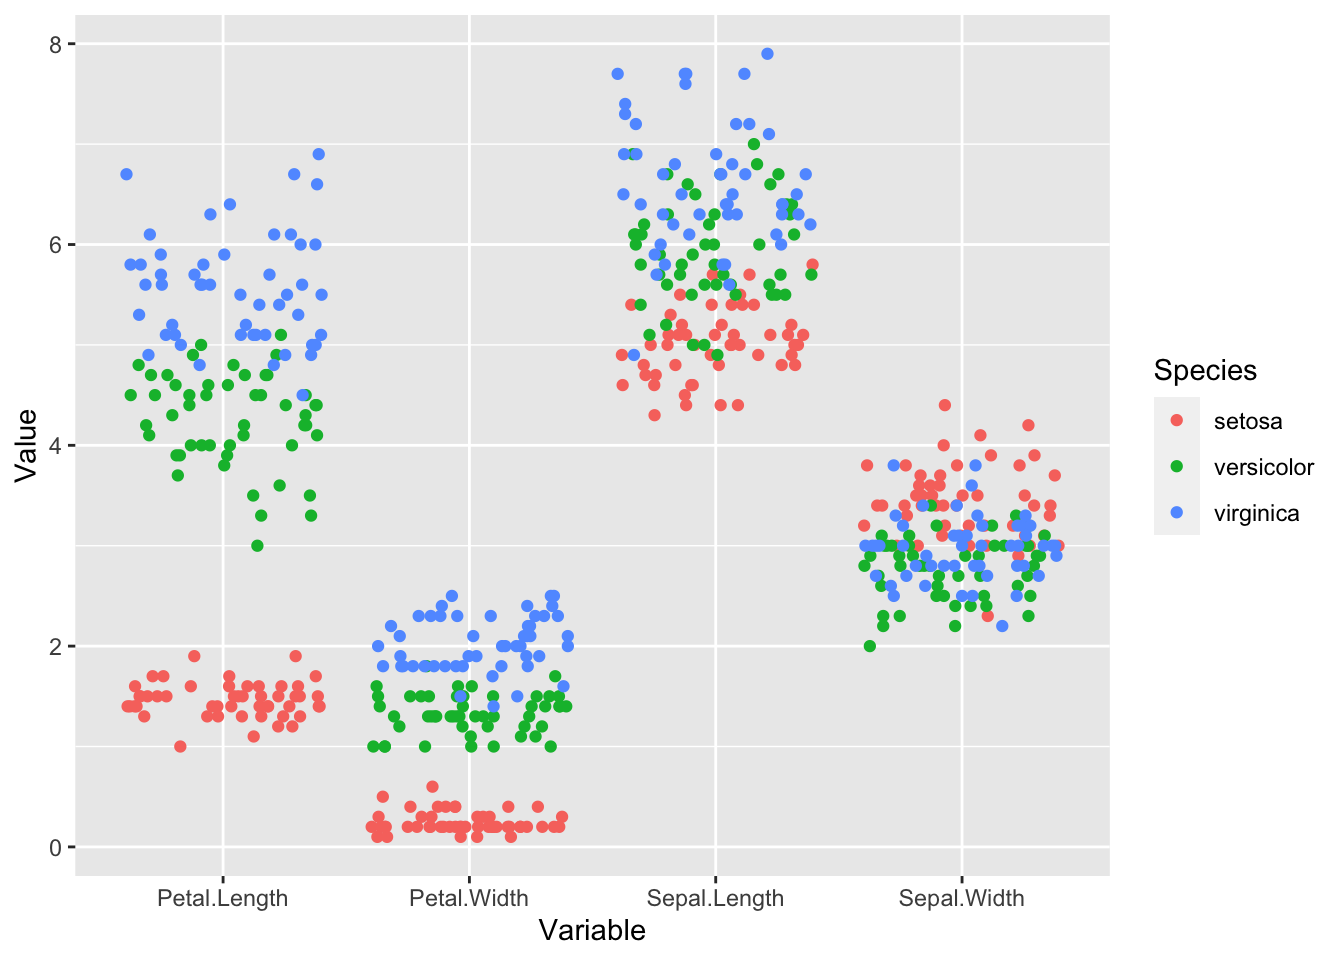
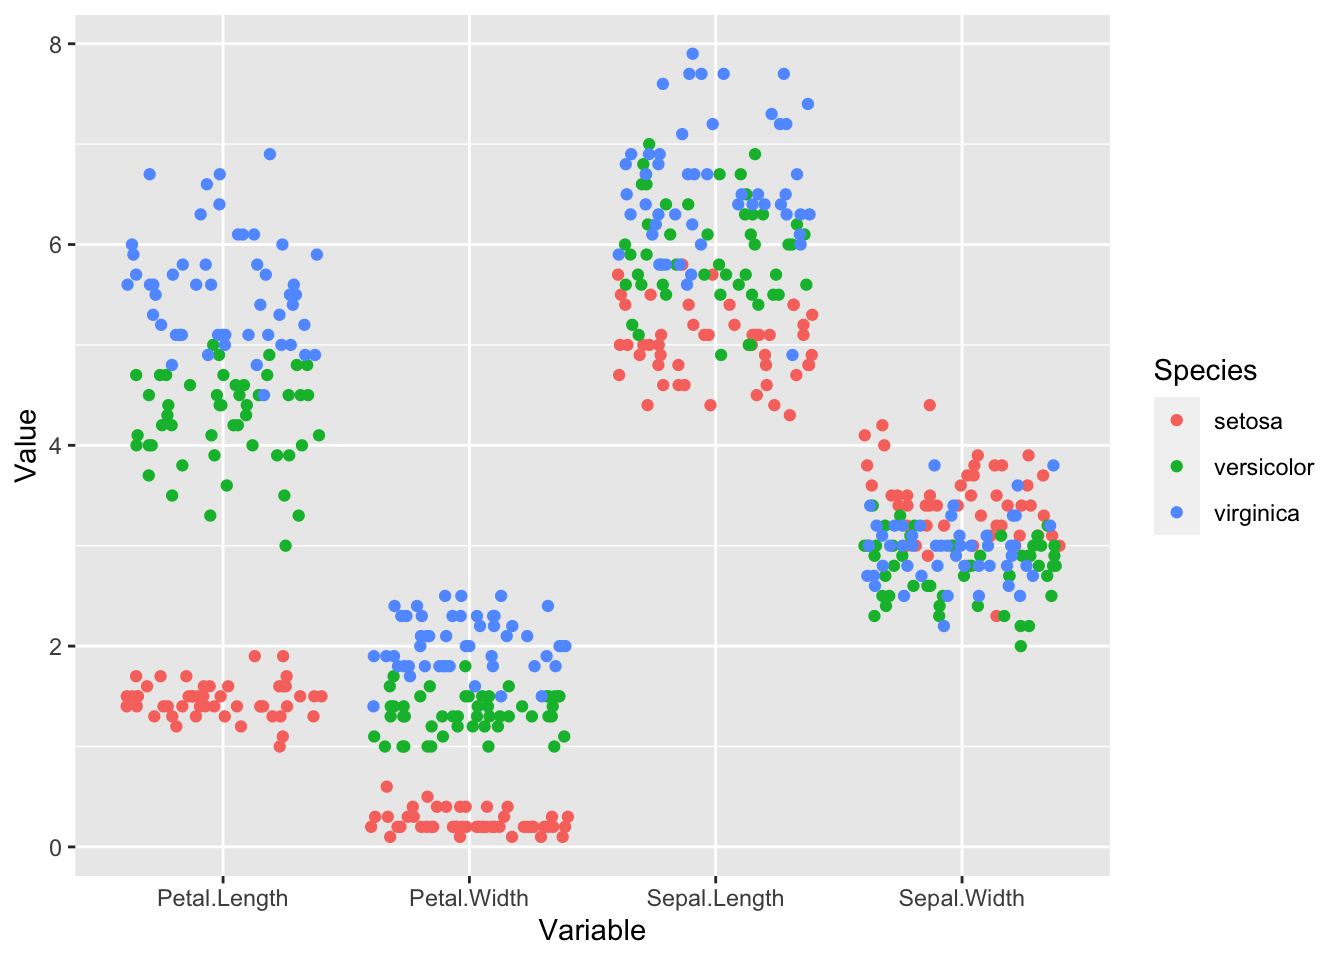
- minor changes

diff --git a/_site/posts/2023-07-12-the-iris-dataset/2023-07-12-the-iris-dataset.html b/_site/posts/2023-07-12-the-iris-dataset/2023-07-12-the-iris-dataset.html
@@ -197,16 +197,18 @@ pre > code.sourceCode > span > a:first-child::before { text-decoration: underlin
 <section id="init" class="level2">
 <h2 class="anchored" data-anchor-id="init">Init</h2>
 <div class="cell">
-<div class="sourceCode cell-code" id="cb1"><pre class="sourceCode r code-with-copy"><code class="sourceCode r"><span id="cb1-1"><a href="#cb1-1" aria-hidden="true" tabindex="-1"></a><span class="fu">library</span>(<span class="st">'tidyverse'</span>)</span></code><button title="Copy to Clipboard" class="code-copy-button"><i class="bi"></i></button></pre></div>
+<div class="sourceCode cell-code" id="cb1"><pre class="sourceCode r code-with-copy"><code class="sourceCode r"><span id="cb1-1"><a href="#cb1-1" aria-hidden="true" tabindex="-1"></a><span class="fu">library</span>(<span class="st">'tidyverse'</span>)</span>
+<span id="cb1-2"><a href="#cb1-2" aria-hidden="true" tabindex="-1"></a><span class="fu">library</span>(<span class="st">'lme4'</span>)</span></code><button title="Copy to Clipboard" class="code-copy-button"><i class="bi"></i></button></pre></div>
 </div>
 </section>
 <section id="data-preparation" class="level2">
 <h2 class="anchored" data-anchor-id="data-preparation">Data preparation</h2>
 <div class="cell">
 <div class="sourceCode cell-code" id="cb2"><pre class="sourceCode r code-with-copy"><code class="sourceCode r"><span id="cb2-1"><a href="#cb2-1" aria-hidden="true" tabindex="-1"></a>iris_long <span class="ot">&lt;-</span> iris <span class="sc">|&gt;</span> </span>
-<span id="cb2-2"><a href="#cb2-2" aria-hidden="true" tabindex="-1"></a>  <span class="fu">pivot_longer</span>(<span class="at">cols =</span> <span class="sc">-</span>Species, </span>
-<span id="cb2-3"><a href="#cb2-3" aria-hidden="true" tabindex="-1"></a>               <span class="at">names_to =</span> <span class="st">'Variable'</span>, </span>
-<span id="cb2-4"><a href="#cb2-4" aria-hidden="true" tabindex="-1"></a>               <span class="at">values_to =</span> <span class="st">'Value'</span>)</span></code><button title="Copy to Clipboard" class="code-copy-button"><i class="bi"></i></button></pre></div>
+<span id="cb2-2"><a href="#cb2-2" aria-hidden="true" tabindex="-1"></a>  <span class="fu">mutate</span>(<span class="at">id =</span> <span class="dv">1</span><span class="sc">:</span><span class="fu">nrow</span>(iris)) <span class="sc">|&gt;</span> </span>
+<span id="cb2-3"><a href="#cb2-3" aria-hidden="true" tabindex="-1"></a>  <span class="fu">pivot_longer</span>(<span class="at">cols =</span> <span class="sc">-</span><span class="fu">c</span>(Species, id), </span>
+<span id="cb2-4"><a href="#cb2-4" aria-hidden="true" tabindex="-1"></a>               <span class="at">names_to =</span> <span class="st">'Variable'</span>, </span>
+<span id="cb2-5"><a href="#cb2-5" aria-hidden="true" tabindex="-1"></a>               <span class="at">values_to =</span> <span class="st">'Value'</span>)</span></code><button title="Copy to Clipboard" class="code-copy-button"><i class="bi"></i></button></pre></div>
 </div>
 </section>
 <section id="plots" class="level2">
@@ -295,14 +297,43 @@ Signif. codes:  0 '***' 0.001 '**' 0.01 '*' 0.05 '.' 0.1 ' ' 1</code></pre>
 <div class="cell-output-display">
 <p><img src="2023-07-12-the-iris-dataset_files/figure-html/iris_models-8.png" class="img-fluid" width="672"></p>
 </div>
+<div class="sourceCode cell-code" id="cb13"><pre class="sourceCode r code-with-copy"><code class="sourceCode r"><span id="cb13-1"><a href="#cb13-1" aria-hidden="true" tabindex="-1"></a>fitted_model <span class="ot">&lt;-</span> </span>
+<span id="cb13-2"><a href="#cb13-2" aria-hidden="true" tabindex="-1"></a>  <span class="fu">lmer</span>(<span class="fu">log</span>(Value) <span class="sc">~</span> Species <span class="sc">*</span> Variable <span class="sc">+</span> (<span class="dv">1</span> <span class="sc">|</span> id),</span>
+<span id="cb13-3"><a href="#cb13-3" aria-hidden="true" tabindex="-1"></a>     <span class="at">data =</span> iris_long)</span>
+<span id="cb13-4"><a href="#cb13-4" aria-hidden="true" tabindex="-1"></a>fitted_model</span></code><button title="Copy to Clipboard" class="code-copy-button"><i class="bi"></i></button></pre></div>
+<div class="cell-output cell-output-stdout">
+<pre><code>Linear mixed model fit by REML ['lmerMod']
+Formula: log(Value) ~ Species * Variable + (1 | id)
+   Data: iris_long
+REML criterion at convergence: -496.6563
+Random effects:
+ Groups   Name        Std.Dev.
+ id       (Intercept) 0.08565 
+ Residual             0.13522 
+Number of obs: 600, groups:  id, 150
+Fixed Effects:
+                           (Intercept)                       Speciesversicolor  
+                                0.3728                                  1.0702  
+                      Speciesvirginica                     VariablePetal.Width  
+                                1.3367                                 -1.8574  
+                  VariableSepal.Length                     VariableSepal.Width  
+                                1.2354                                  0.8531  
+ Speciesversicolor:VariablePetal.Width    Speciesvirginica:VariablePetal.Width  
+                                0.6854                                  0.8447  
+Speciesversicolor:VariableSepal.Length   Speciesvirginica:VariableSepal.Length  
+                               -0.9011                                 -1.0642  
+ Speciesversicolor:VariableSepal.Width    Speciesvirginica:VariableSepal.Width  
+                               -1.2837                                 -1.4783  </code></pre>
+</div>
 </div>
 </section>
 <section id="conclusion" class="level2">
 <h2 class="anchored" data-anchor-id="conclusion">Conclusion</h2>
 <ul>
-<li>In general, I like the log scale modeling - however there is a problem with the model on log scale:
+<li>In general, I like the log scale modeling - however there is a problem with the model on log scale
 <ul>
-<li>Species setosa is not fit adequately - probably measurement error is not adequately modeled on log scale</li>
+<li>Effects can be given as fold-changes - this seems to make sense to me</li>
+<li>Species “setosa” is not fit adequately on log scale - probably measurement error is not adequately modeled on log scale - higher variance of error on log scale</li>
 </ul></li>
 </ul>
 

diff --git a/_site/index.html b/_site/index.html
@@ -198,7 +198,7 @@ ul.task-list li input[type="checkbox"] {
     </div>
 </div>
 <div class="list quarto-listing-default">
-<div class="quarto-post image-right" data-index="0" data-categories="R" data-listing-date-sort="1689112800000" data-listing-file-modified-sort="1689149520361" data-listing-date-modified-sort="NaN" data-listing-reading-time-sort="1">
+<div class="quarto-post image-right" data-index="0" data-categories="R" data-listing-date-sort="1689112800000" data-listing-file-modified-sort="1689149966885" data-listing-date-modified-sort="NaN" data-listing-reading-time-sort="2">
 <div class="thumbnail">
 <p><a href="./posts/2023-07-12-the-iris-dataset/2023-07-12-the-iris-dataset.html"> <p class="card-img-top"><img src="posts/2023-07-12-the-iris-dataset/2023-07-12-the-iris-dataset_files/figure-html/iris_plots-1.png"  class="thumbnail-image card-img"/></p> </a></p>
 </div>
@@ -408,7 +408,7 @@ Sebastian Gerdes
 </a>
 </div>
 </div>
-<div class="quarto-post image-right" data-index="6" data-categories="R" data-listing-date-sort="1679007600000" data-listing-file-modified-sort="1689060360599" data-listing-date-modified-sort="NaN" data-listing-reading-time-sort="5">
+<div class="quarto-post image-right" data-index="6" data-categories="R" data-listing-date-sort="1679007600000" data-listing-file-modified-sort="1689150072001" data-listing-date-modified-sort="NaN" data-listing-reading-time-sort="5">
 <div class="thumbnail">
 <p><a href="./posts/2023-03-17-interesting-r-packages/2023-03-17-interesting-r-packages.html"> <p class="card-img-top"><img src="posts/2023-03-17-interesting-r-packages/2023-03-17-interesting-r-packages_files/figure-html/unnamed-chunk-5-1.png"  class="thumbnail-image card-img"/></p> </a></p>
 </div>
